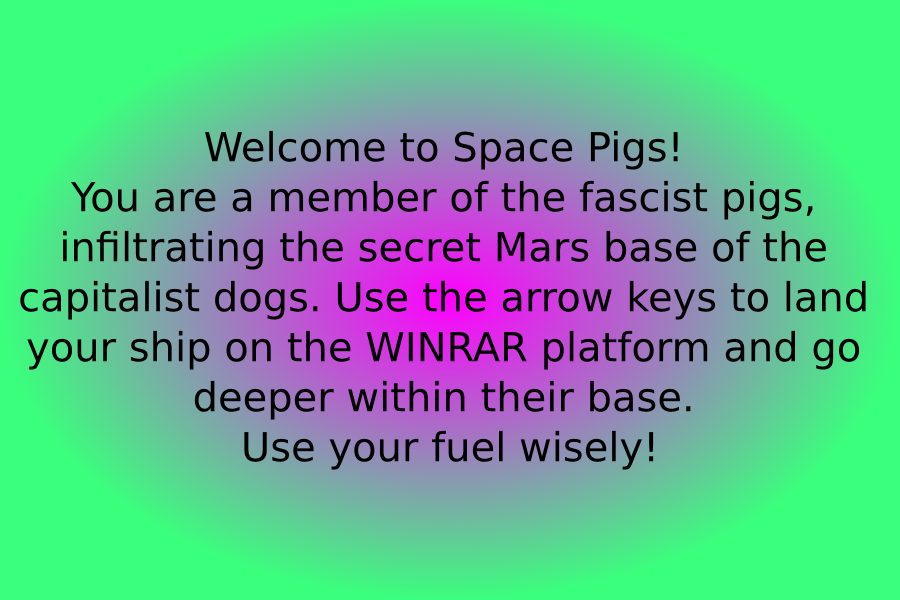
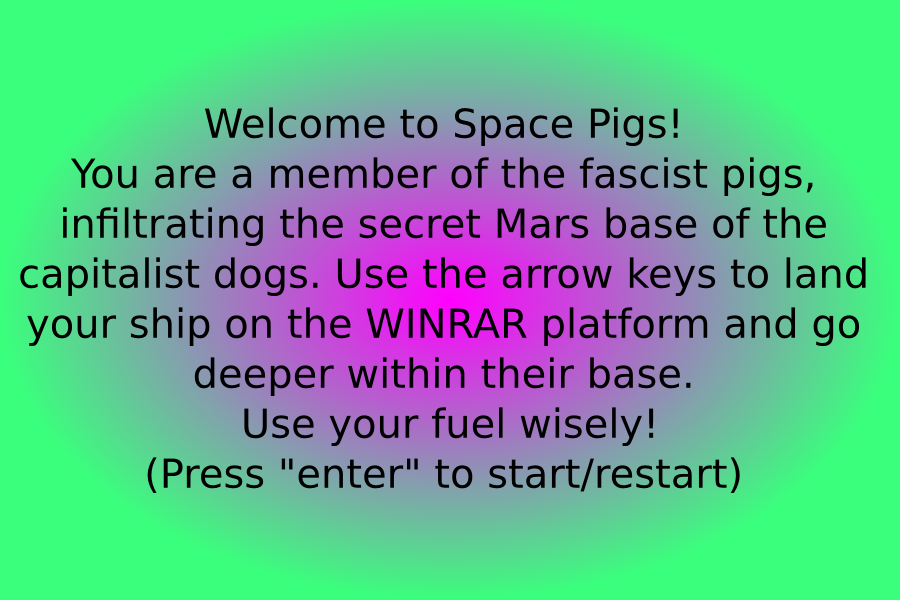
MOTTO KUDASAI

Changed region(s): [[0.0, 0.18, 0.9644, 0.81]]

diff --git a/GameWorld.java b/GameWorld.java
@@ -12,6 +12,8 @@ public class GameWorld extends World
     private int width, height;
     public double vx, vy;
     public boolean landed = false;
+    public boolean gameOver = false;
+    private boolean showIntro = true;
     private int fuel;
     private ArrayList<CollisionActor> allCollisionActors;
     /**
@@ -36,11 +38,15 @@ public class GameWorld extends World
     {
         return allCollisionActors;
     }
+    public GameWorld showIntro(boolean showIntro) {
+        this.showIntro = showIntro;
+        return this;
+    }
     @Override
     public void act()
     {
-        if (landed && Greenfoot.isKeyDown("enter")) {
-            Greenfoot.setWorld(new GameWorld());
+        if (gameOver && Greenfoot.isKeyDown("enter")) {
+            Greenfoot.setWorld(new GameWorld().showIntro(false));
             Greenfoot.start();
         }
         if (!landed) {
@@ -152,6 +158,8 @@ public class GameWorld extends World
         //THEN ADD FINISH?
         addObject(bar, 100, 50);
         addObject(land, 450, 250);
-        addObject(new IntroBubble(), bg.xoff, bg.yoff);
+        if (showIntro) {
+            addObject(new IntroBubble(), bg.xoff, bg.yoff);
+        }
     }
 }

diff --git a/Lander.java b/Lander.java
@@ -24,6 +24,7 @@ public class Lander extends AnimatedActor
         ((GameWorld)(getWorld())).setYVel(0);
         ((GameWorld)(getWorld())).setXVel(0);
         ((GameWorld)(getWorld())).landed = true;
+        ((GameWorld)(getWorld())).gameOver = true;
         engineSound.stop();
         getWorld().addObject(new Explosion(), getX(), getY());
         getWorld().removeObject(this);
@@ -40,7 +41,9 @@ public class Lander extends AnimatedActor
                 if (other.getClass().equals(Platform.class) || other.getClass().equals(FuelPlatform.class) || other.getClass().equals(WinPlatform.class)){
                     if(other.getClass().equals(WinPlatform.class)) {
                         System.out.println("YOU WIN");
-                        killPlayer();
+                        ((GameWorld) getWorld()).gameOver = true;
+                        getWorld().addObject(new WinBubble(), 450, 300);
+                        //killPlayer();
                     }
                     if(Math.abs(((GameWorld)(getWorld())).vx) > 2 
                     || ((GameWorld)(getWorld())).vy < -4 

diff --git a/WinBubble.java b/WinBubble.java
@@ -1,0 +1,24 @@
+import greenfoot.*;
+
+/**
+ * Write a description of class WinBubble here.
+ * 
+ * @author (your name) 
+ * @version (a version number or a date)
+ */
+public class WinBubble extends ScrollingActor
+{
+    /**
+     * Act - do whatever the WinBubble wants to do. This method is called whenever
+     * the 'Act' or 'Run' button gets pressed in the environment.
+     */
+    public void act() 
+    {
+        /*
+        if (Greenfoot.isKeyDown("enter")) {
+            Greenfoot.setWorld(new GameWorld());
+            Greenfoot.start();
+        }
+        */
+    }    
+}
